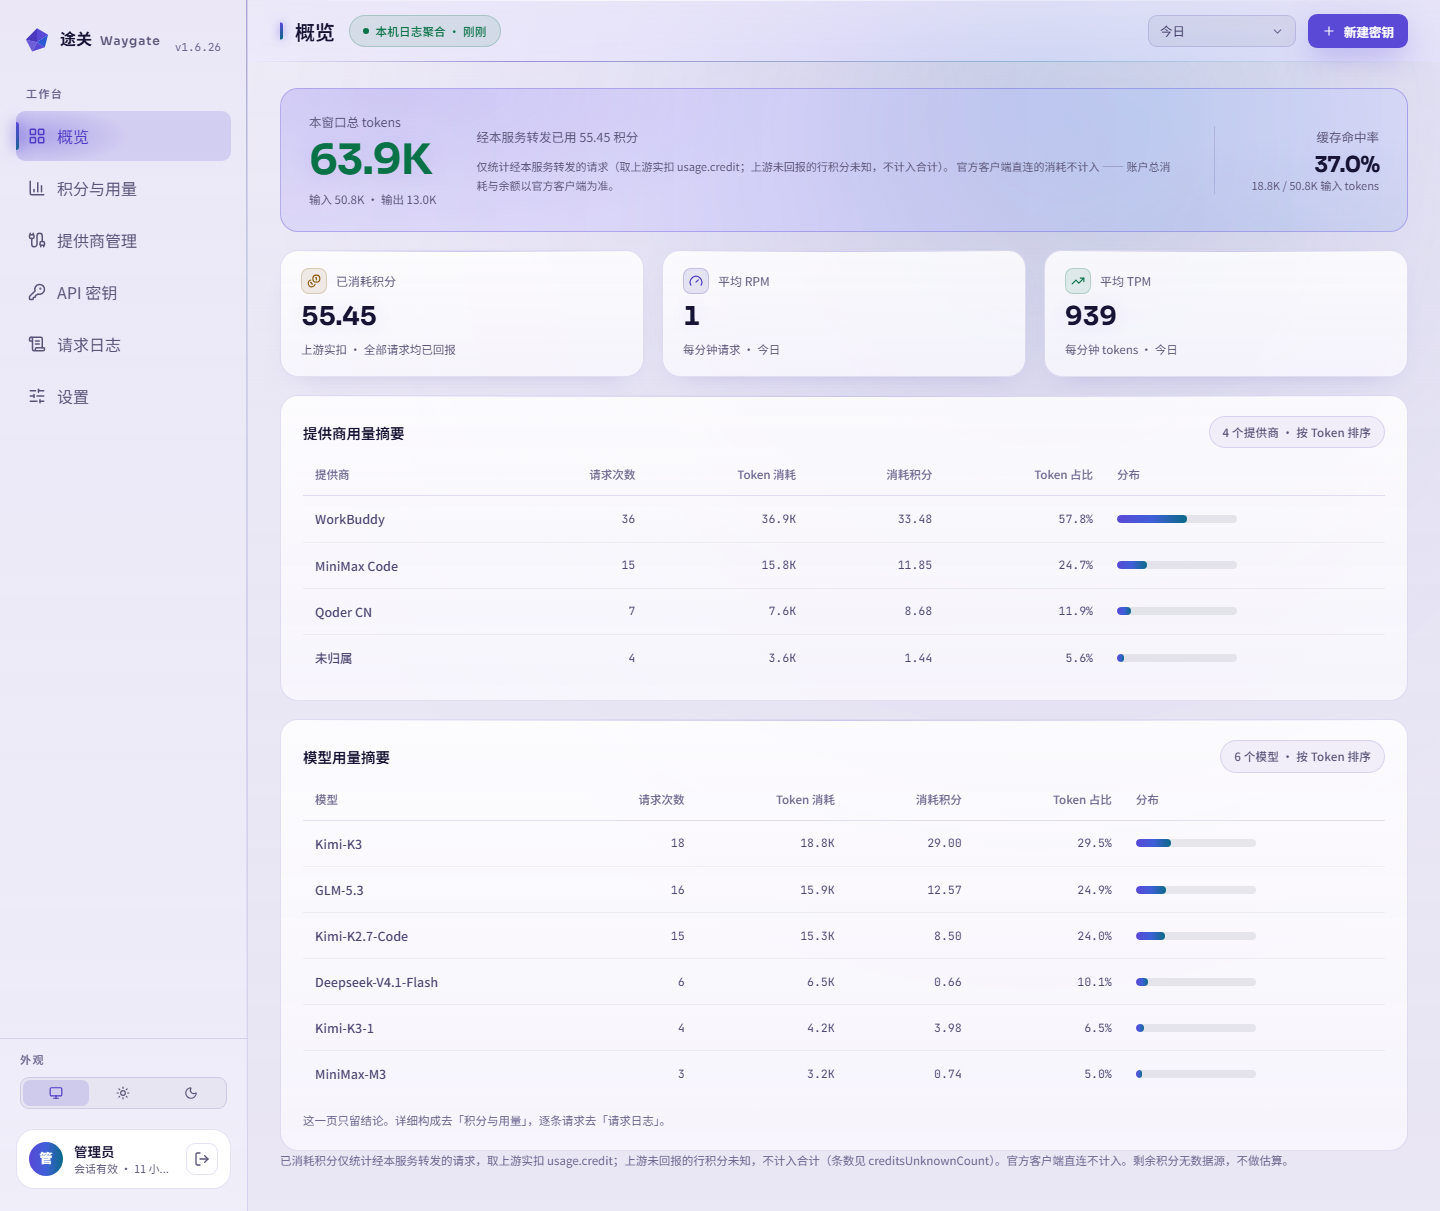
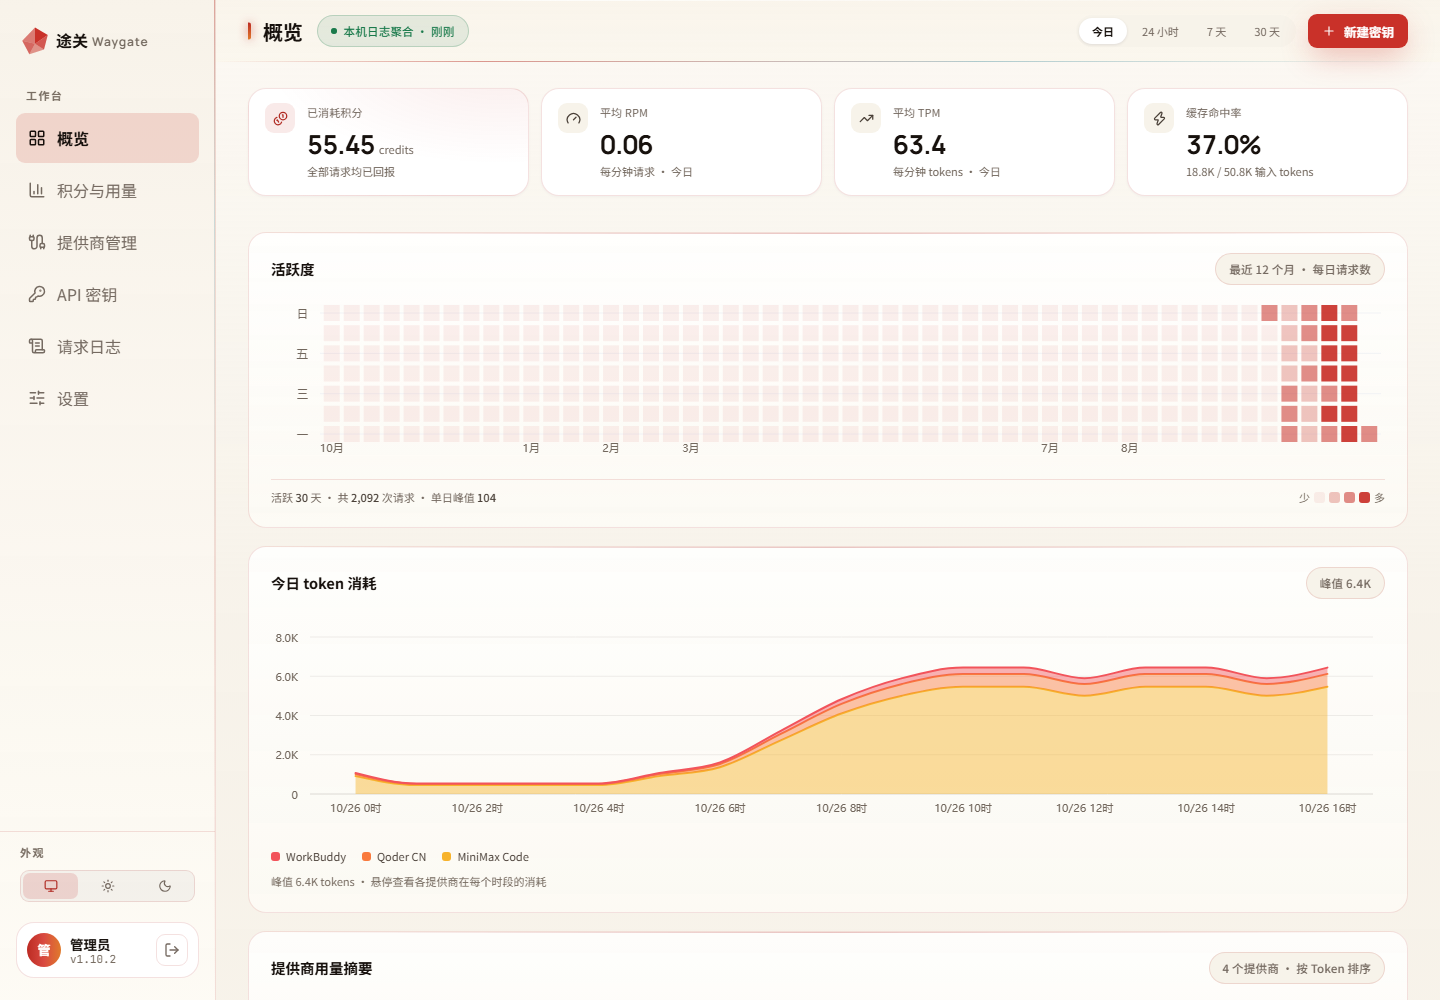
feat(v1.10.3): 同步私有仓 —— 热力图圆角全标、折线撞色修复、提供商页窗口统一
与私有仓同步（relay-station 7b2162c，18 个文件）。

## 一、热力图（用户报障两项）
- 格块改圆角：cornerRadius 2→3（正方形 + 3px 圆角，贡献图主流观感）
- X 轴 12 个月全标（此前"看不到全"是首次探测时图未懒加载完的误判——
  月均 4.4 列一个标签，全标不挤）

## 二、折线撞色：根因是哈希撞桶
providerColor(id) = FNV-1a % 7 —— 生日悖论下 4 家约 35% 概率两家同色。
修法两层：
1. 光谱 7→10 色（tokens.css 补粉/洋红/蓝紫，明度带一致，双主题可读）
2. 图表内改按序取色（spectrumByIndex）：折线与图例按「全窗口 tokens 降序」
   取色 —— 同屏必不同色（10 家内）；跨页身份色仍走哈希，两个语义分开

## 三、提供商页窗口控件统一（用户裁决）
下拉 Select → 与概览/用量页同款四段平铺（win-seg），选择仍写共享窗口。

## 同步方式
代码文件补丁前全部与私有仓逐字节相同，直接套用（ActivityHeat 的 3 行
差异是上轮修 lint 的注释，手工合入 relay 增量）；六张截图重拍版一并同步。
无迁移。

## 验证
server 899 全绿；web tsc + lint（5 道门禁）+ build 全绿。
真机：healthz 报 1.10.3、/console 200。

diff --git a/web/src/pages/ClientsPage.tsx b/web/src/pages/ClientsPage.tsx
@@ -2,9 +2,7 @@ import { useState } from 'react';
 import type { TimeWindow } from '../types/api';
 import { readSharedWindow, writeSharedWindow } from '../lib/sharedWindow';
 import { Topbar } from '../components/ui/Topbar';
-import { Select } from '../components/ui/Select';
 import { ProvidersPanel } from '../components/clients/ProvidersPanel';
-import { WINDOW_OPTIONS } from '../lib/console';
 
 /**
  * 提供商管理 —— **一张表**：提供商行 = 汇总，其下嵌套客户端行 = 明细。
@@ -14,7 +12,8 @@ import { WINDOW_OPTIONS } from '../lib/console';
  * 两者是同一件事的两端；各只有一行时，两张表看着就是重复。
  * 表结构与提供商行的用量归属规则写在 `ProviderTable.tsx`。
  *
- * 顶栏的窗口选择器仍在 —— 它决定客户端行报的用量窗口（`api.clients(window)`）。
+ * [v1.10.3] 窗口选择从下拉改为**与概览/用量页同款四段平铺**（用户裁决）：
+ * 同一语义的控件跨页长得一样，且档位一次可见一次可点；选择仍写入共享窗口。
  */
 export function ClientsPage() {
   const [win, setWin] = useState<TimeWindow>(() => readSharedWindow() ?? 'today');
@@ -23,7 +22,21 @@ export function ClientsPage() {
     <div className="view on">
       <Topbar
         title="提供商管理"
-        actions={<Select value={win} options={WINDOW_OPTIONS} onChange={(v) => { writeSharedWindow(v); setWin(v); }} width={148} />}
+        actions={
+          <span className="win-seg" role="group" aria-label="时间窗口">
+            {(['today', '24h', '7d', '30d'] as TimeWindow[]).map((w) => (
+              <button
+                key={w}
+                type="button"
+                className={win === w ? 'on' : ''}
+                aria-pressed={win === w}
+                onClick={() => { writeSharedWindow(w); setWin(w); }}
+              >
+                {w === 'today' ? '今日' : w === '24h' ? '24 小时' : w === '7d' ? '7 天' : '30 天'}
+              </button>
+            ))}
+          </span>
+        }
       />
       <div className="view-body stack">
         <ProvidersPanel window={win} />

diff --git a/docs/features.html b/docs/features.html
@@ -120,7 +120,7 @@
 <div class="page">
   <header>
     <h1>途关 Waygate · 功能架构</h1>
-    <span class="chip">v1.10.2</span>
+    <span class="chip">v1.10.3</span>
     <button class="theme-toggle" id="themeToggle" type="button">切换主题</button>
   </header>
   <p class="sub">五域能力地图：控制台 · 接入 · 多提供商 · 积分与领取 · 运行保障。每一条都对应已实现的代码路径。</p>
@@ -159,7 +159,7 @@
         <li><b>WorkBuddy</b> —— openai 方言 · 官方 OAuth 授权（v1.6.13 起 <code>ck_</code> 已退役）</li>
         <li><b>MiniMax Code</b> —— anthropic 方言 · OAuth 自动续期</li>
         <li><b>Qoder CN</b> —— COSY 协议 · 客户端登录态身份</li>
-        <li><b>自定义提供商</b>（v1.10.2）—— 任意 OpenAI 兼容端点：Base URL + API Key 手填即接；URL 智能解析（带不带 /v1 都行，表单实时预览）；清单拉 <code>/v1/models</code> 或手动补；出站纯 Bearer 透传（无指纹 / 不改写 / 无重试梯）；单次积分如实 <code>--</code>（不标定）</li>
+        <li><b>自定义提供商</b>（v1.10.3）—— 任意 OpenAI 兼容端点：Base URL + API Key 手填即接；URL 智能解析（带不带 /v1 都行，表单实时预览）；清单拉 <code>/v1/models</code> 或手动补；出站纯 Bearer 透传（无指纹 / 不改写 / 无重试梯）；单次积分如实 <code>--</code>（不标定）</li>
         <li><b>凭证导入</b> —— 选客户端 → 跳官方授权页 → 回来自动落盘；「未授权」信号三家各不相同（业务码 / <code>authorization_pending</code> / 404）；私有状态只存服务端</li>
         <li><b>路由规则</b> —— 精确匹配（大小写敏感）→ 提供商内模糊回落；声明行优先于 observed</li>
       </ul>
@@ -193,7 +193,7 @@
   </div>
 
   <p class="foot">
-    图中每一条都对应已实现的代码路径，无规划项。版本 v1.10.2 ·
+    图中每一条都对应已实现的代码路径，无规划项。版本 v1.10.3 ·
     与 <code>server/src/version.ts</code> 同源。
   </p>
 </div>

diff --git a/web/src/components/overview/TokenTrend.tsx b/web/src/components/overview/TokenTrend.tsx
@@ -2,7 +2,7 @@ import { lazy, Suspense, useMemo } from 'react';
 import type { TrendPoint } from '../../types/api';
 import { formatBucket, formatTokens } from '../../lib/format';
 import { useChartColors } from './chartTheme';
-import { providerColor } from '../../lib/providerColor';
+import { providerColor, spectrumByIndex } from '../../lib/providerColor';
 import { readToken } from './chartTheme';
 
 type Row = {
@@ -117,14 +117,14 @@ export function TokenTrend({ points, windowLabel }: { points: TrendPoint[]; wind
       id: `area-${s.key}`,
       line: {
         style: {
-          stroke: canvasColor(s.key),
+          stroke: canvasColor(spectrumByIndex(i)),
           lineWidth: 2,
           curveType: 'monotoneX',
         },
       },
       area: {
         style: {
-          fill: canvasColor(s.key),
+          fill: canvasColor(spectrumByIndex(i)),
           fillOpacity: 0.45,
         },
       },
@@ -208,11 +208,13 @@ export function TokenTrend({ points, windowLabel }: { points: TrendPoint[]; wind
       <Suspense fallback={<div className="token-trend-loading" aria-hidden="true" />}>
         <VChart spec={spec} style={{ width: '100%', height: 220 }} />
       </Suspense>
-      {/* [v8] 图例：按全窗口 tokens 降序（与堆叠层次一致），色点用同一身份色。 */}
+      {/* [v8] 图例：按全窗口 tokens 降序（与堆叠层次一致）。
+          [v1.10.3] 色点与线同源 —— 按系列序取色（spectrumByIndex），
+          否则图例（哈希色）与线（序号色）对不上。跨页身份色仍由别处 providerColor 提供。 */}
       <div className="tt-legend">
-        {providerNames.map((n) => (
+        {providerNames.map((n, i) => (
           <span className="tt-legend-item" key={n}>
-            <i style={{ background: providerColor(n) }} />
+            <i style={{ background: spectrumByIndex(i) }} />
             {nameById.get(n) ?? n}
           </span>
         ))}

diff --git a/web/src/components/overview/ActivityHeat.tsx b/web/src/components/overview/ActivityHeat.tsx
@@ -97,7 +97,10 @@ export function ActivityHeat({ points }: { points: TrendPoint[] }) {
       ? { l1: Math.max(1, q(0.25)), l2: Math.max(2, q(0.6)) }
       : { l1: 1, l2: 2 };
 
-    /* x 轴月份标签：每列取首日，月份变化的那列才标（其余空串）。 */
+    /* [v1.10.3] x 轴 12 个月全标（用户口径）：每个**月的第一列**都标月份。
+       12 个月 ≈ 52 列，月均 4.4 列 —— 一个标签宽度内不会再遇到下一个标签，全标不挤。
+       跨年时（11 月、12 月属于去年）首两个月写「去年 11 月」式短前缀容易与图例混淆，
+       保持纯「11月」—— 顺序本身（左旧右新）已消除歧义。 */
     const weekLabels: string[] = [];
     let lastMonth = -1;
     for (let w = 0; w < weeks; w++) {
@@ -203,7 +206,8 @@ export function ActivityHeat({ points }: { points: TrendPoint[] }) {
       style: {
         fill: c.line,
         fillOpacity: (d: unknown) => opacityFor((d as Cell).requests),
-        cornerRadius: 2,
+        /* [v1.10.3] 圆角方块（用户裁决）：正方形 + 3px 圆角，贡献图主流观感。 */
+        cornerRadius: 3,
         /* [v1.10.2] 正方形闸门（读 heatmap.js 源码定案）：cell 的 size 来自
            series 级 `[x带宽, y带宽]` —— y 轴 region 被布局压窄时格就变扁。
            用户级 style 覆盖它：size 显式给 `[步长×0.82, 步长×0.82]`（0.82 = 剥

diff --git a/web/src/lib/providerColor.ts b/web/src/lib/providerColor.ts
@@ -20,7 +20,19 @@ const SPECTRUM = [
   'var(--spectrum-5)',
   'var(--spectrum-6)',
   'var(--spectrum-7)',
+  /* [v1.10.3] 8-10 号补位：哈希 % 7 在 3+ 家时撞色概率很高（生日悖论，4 家 ~35%）,
+     扩到 10 显著降低；图表内另按系列序分配（spectrumByIndex），哈希只服务跨页身份。 */
+  'var(--spectrum-8)',
+  'var(--spectrum-9)',
+  'var(--spectrum-10)',
 ] as const;
+
+/** [v1.10.3] 按序取色（循环）—— 图表专用：同屏系列各取各的序号，**同屏必不同色**。
+ *  哈希法在同一页面撞色是用户报障根因（折线图 3+ 家出现同色）。
+ *  序号 = 图表数据归并时的排名（tokens 降序），同页稳定；跨页身份仍走 providerColor(id)。 */
+export function spectrumByIndex(i: number): string {
+  return SPECTRUM[((i % SPECTRUM.length) + SPECTRUM.length) % SPECTRUM.length];
+}
 
 /** 稳定哈希 → 光谱色 CSS 变量引用。 */
 export function providerColor(id: string): string {

diff --git a/server/src/version.ts b/server/src/version.ts
@@ -9,4 +9,4 @@
  * `version` 一致，不一致直接 fail build —— 两处版本永远不会悄悄分叉。
  * 升版本 = 同时改 package.json 与这里（构建会逼你对齐）。
  */
-export const VERSION = '1.10.2';
+export const VERSION = '1.10.3';

diff --git a/README.md b/README.md
@@ -8,7 +8,7 @@
 [![NestJS](https://img.shields.io/badge/NestJS-12-E0234E?style=flat-square)](https://nestjs.com)
 [![SQLite](https://img.shields.io/badge/SQLite-better--sqlite3-003B57?style=flat-square)](https://github.com/WiseLibs/better-sqlite3)
 [![Node](https://img.shields.io/badge/Node-%E2%89%A522.9-3C873A?style=flat-square)](https://nodejs.org)
-[![version](https://img.shields.io/badge/version-1.10.2-4A38C0?style=flat-square)](https://github.com/zhanghaojie513/waygate-open/releases)
+[![version](https://img.shields.io/badge/version-1.10.3-4A38C0?style=flat-square)](https://github.com/zhanghaojie513/waygate-open/releases)
 [![tests](https://img.shields.io/badge/tests-899%20passed-0A7247?style=flat-square)](./server)
 
 ![途关 · Waygate](docs/img/intro.png)
@@ -45,10 +45,10 @@
 - **双方言出口**：`/v1/chat/completions`（OpenAI 兼容）与 `/v1/messages`（Anthropic 兼容），流式/非流式；三种上游方言自动翻译
 - **多提供商**：目录按 `(provider_id, id)` 分区；来源分 `seed / upstream / manual` 三类（observed 机制 v1.5.0 已废除，目录以接口清单为准）；订阅三家与自定义提供商可同时生效
 - **导入客户端**（v1.6.12，v1.6.13 起为**订阅三家的唯一**凭证入口；v1.7.0 起另有「新增自定义」并列入口）：控制台选客户端 → 跳各自**官方授权页** → 回来自动落盘凭证。三家的授权机制各不相同（WorkBuddy 业务码判等待 / MiniMax PKCE 设备码 / Qoder PKCE + 404 判等待），服务端按协议分派；私有状态（`device_code` / `code_verifier`）只存服务端，**绝不回传浏览器**。三家凭证都在客户端登录态里、用户拿不到，因此**不提供手填**（WorkBuddy 原用的 `ck_` 密钥已退役，转发也改走 OAuth）——行内「重新导入授权」用于换账号 / 刷新令牌
-- **自定义提供商**（v1.10.2，「导入客户端」旁的第二条新建路径）：任意 **OpenAI 兼容端点**（DeepSeek / OpenRouter / 硅基流动 / 自建 vLLM…）填 **Base URL + API Key** 即可接入。与上面不矛盾 —— API-key 制端点的 key 就在用户手上，**手填就是它的原生鉴权**（和当年订阅客户端的 `ck_` 死路是两回事）。出站走独立分支：纯 Bearer、无指纹 UA、不做 prompt 重写、无 111xx 重试梯；模型清单拉 `GET /v1/models`，拉不到可**手动补模型**（`source='manual'`，不被替换式同步冲掉）；积分列恒「未回报」（不自标定）。聊天端点路径**智能解析**：base 无版本段拼 `/v1/chat/completions`，以 `/vN` 结尾只拼 `/chat/completions`，也可显式覆盖
+- **自定义提供商**（v1.10.3，「导入客户端」旁的第二条新建路径）：任意 **OpenAI 兼容端点**（DeepSeek / OpenRouter / 硅基流动 / 自建 vLLM…）填 **Base URL + API Key** 即可接入。与上面不矛盾 —— API-key 制端点的 key 就在用户手上，**手填就是它的原生鉴权**（和当年订阅客户端的 `ck_` 死路是两回事）。出站走独立分支：纯 Bearer、无指纹 UA、不做 prompt 重写、无 111xx 重试梯；模型清单拉 `GET /v1/models`，拉不到可**手动补模型**（`source='manual'`，不被替换式同步冲掉）；积分列恒「未回报」（不自标定）。聊天端点路径**智能解析**：base 无版本段拼 `/v1/chat/completions`，以 `/vN` 结尾只拼 `/chat/completions`，也可显式覆盖
 - **API 密钥**：绑定提供商优先级、权限范围（全部/按族/按模型/按标签）、IP 上限、token 配额、IP 白名单
 - **请求日志**：提供商列读 `provider_id` **事实列**（本次请求实际路由到哪家；迁移前的老行按目录反解兜底）；SSE 流也留痕；**游标（keyset）分页**——翻页期间的新写入不产生重复行；按 `logs.retainDays` 每日自动清理过期日志（启动即补跑停机期间欠的账）
-- **延迟归因**（v1.10.2）：把「慢不慢」拆成「谁慢」——`ingress_ms`（客户端上传 + 解析）/ `auth_ms`（鉴权）/ `prep_ms`（路由 + 凭证 + 组包）/ `upstream_wait_ms`（上游排队 + 思考）。详情抽屉「时间去哪了」分段条；用量页「我方开销」均值 + 「首字节 P95」（P95 取秩不插值）。四列**全可空**，NULL = 未记录，**绝不用 0 冒充**
+- **延迟归因**（v1.10.3）：把「慢不慢」拆成「谁慢」——`ingress_ms`（客户端上传 + 解析）/ `auth_ms`（鉴权）/ `prep_ms`（路由 + 凭证 + 组包）/ `upstream_wait_ms`（上游排队 + 思考）。详情抽屉「时间去哪了」分段条；用量页「我方开销」均值 + 「首字节 P95」（P95 取秩不插值）。四列**全可空**，NULL = 未记录，**绝不用 0 冒充**
 - **不可逆前留档**（v1.7.2）：删提供商前把「行 + 模型目录 + 启停偏好 + 凭证文件原文」写进 `backup/provider-<id>-<ts>.json`（0600 / 目录 0700，保留最近 20 份）；写失败不阻断删除（如实返回 `backup: null`）。另有 `GET /api/providers/:id/impact` 查「会碰到谁」（绑定密钥 / 模型范围 / 近 N 小时流量）
 - **积分与用量**：趋势图（Token / 请求数双口径，**等距时间轴**，空桶补零）、按模型 / 按提供商拆分、缓存命中率、缓存 token 计量（Anthropic 口径：prompt = input + cache_creation + cache_read）
 - **积分账本**：MiniMax `credit/details` 真实余额（精确到 0.01）；凭证 refresh token 自动续期 + 每日签到（专用账号后即可代签）；WorkBuddy 资源包聚合余额（`get-user-resource` POST 实测口径）
@@ -56,9 +56,9 @@
 - **WorkBuddy 领取域**（v1.4.0；v1.6.11 起与转发统一）：签到代领 + 成长任务 + 连登兑换走**用户会话域**（OAuth，`providers/<id>.oauth`，多会话共存不互踢）——正是这条链路让 `ck_` 得以整体退役。诚实边界：任务多为「体验 XX」型，前置条件不满足就如实记 `skipped`，**绝不伪造行为去凑任务**；补登卡/抽奖等资源消耗型操作不自动化
 - **容错**：Qoder 空内容**自动重试一次**（对客户端无感）—— 零字节与「回了字节但解不出任何 data 帧」都算（v1.7.4 扩，后者生产实测白等 14s 无重试）；判定保守：分块切断的半帧不误判，不把正常流重发一遍；上游 11128 渠道校验自动降级重试；**11128 渠道熔断**（连续 3 次「降级重试也 11128」即开闸，冷却期内未打上游、未占并发槽、未计费，毫秒级 502 + `retry-after`，阵发过去自动半开放行探测）——上游阵发期每个失败要烧 ~65s，并发槽是全局单计数，不加熔断会烧满槽饿死其他提供商；**只计渠道级信号**（内容级 11128 降级能过的不计入），避免一个客户端的请求特征变成全提供商的闸门
 - **审计不丢行**：流式请求在途期间密钥被删时，落库撞 `key_id` 外键会丢整行 —— 现自动降级 `key_id = NULL` 重试保住整行（tokens / 积分 / 状态 / 耗时照常），`client_id` / `key_hint` 快照仍在，note 标记 `key_deleted_inflight`
-- **提供商归属是记录的事实**（v1.10.2）：`requests.provider_id` 记下**本次请求实际路由到**的提供商。原因：同一模型 id 可能同时存在于两家目录（实测 MiniMax-M2.7 / M3 / M3.1-Flash-Preview 同时在 MiniMax Code 与 Code2），而「目录反解」按创建序先到先得、「路由」按密钥绑定优先 —— 两者不一致时统计会静默记到错误的那家，且无字段可查。老行留 `NULL` 并按目录反解兜底（不回填猜测）
+- **提供商归属是记录的事实**（v1.10.3）：`requests.provider_id` 记下**本次请求实际路由到**的提供商。原因：同一模型 id 可能同时存在于两家目录（实测 MiniMax-M2.7 / M3 / M3.1-Flash-Preview 同时在 MiniMax Code 与 Code2），而「目录反解」按创建序先到先得、「路由」按密钥绑定优先 —— 两者不一致时统计会静默记到错误的那家，且无字段可查。老行留 `NULL` 并按目录反解兜底（不回填猜测）
 - **错误语义统一**（v1.6.32）：`/api/*` 的「资源不存在」一律 404 统一信封（不再 200 + `reason` 字符串）；`POST /api/providers` 与其余写方法一样返回 200（此前是 Nest 默认 201）；`/v1/usage` 鉴权失败回 **401**（此前返回 200 + error body，客户端会当成功）
-- **趋势图覆盖整个窗口**（v1.10.2）：桶序列起点**向下对齐到桶边界**、终点是当前桶，于是图覆盖区间 ⊇ 窗口区间，`Σ趋势 === 卡片数字` 成为结构性保证（1h→2 格、24h→25 格、7d→8 格、30d→31 格）。首/末桶带 `partial` 标记，tooltip 标「不足一格」
+- **趋势图覆盖整个窗口**（v1.10.3）：桶序列起点**向下对齐到桶边界**、终点是当前桶，于是图覆盖区间 ⊇ 窗口区间，`Σ趋势 === 卡片数字` 成为结构性保证（1h→2 格、24h→25 格、7d→8 格、30d→31 格）。首/末桶带 `partial` 标记，tooltip 标「不足一格」
 - **控制台**：React 19 单页，明暗双主题（跟随系统/手动，侧栏底部切换；官网与控制台同套主题——棱镜场景浅色下以 `multiply` 显形、深色下以 `screen`），CSS 伪元素 tooltip 体系，同形状骨架屏；页间数据先旧后新（SWR：重进页面即刻渲染上次数据、后台刷新无缝替换，自己的写操作写穿缓存不闪旧态）；「提供商健康」只读总览
 - **性能**：路由级代码分割：官网与控制台互不加载对方代码，首屏 gzip <100K；vendor 独立 chunk 享 30d `immutable` 长缓存（发版只重下业务 chunk）；概览 5s TTL 缓存（写操作即清）、SQL 语句按文本缓存复用、凭证文件 stat 失效缓存、last_seen 节流落库——同进程转发 SSE，省下的每次查询/写库都是还给流的事件循环时间；Nginx gzip（level 5）压缩传输
 
@@ -79,7 +79,7 @@ npm install -g waygate-open
 waygate-open
 ```
 
-想看固定版本而不是跟着 `latest` 走：`npx waygate-open@1.10.2`。
+想看固定版本而不是跟着 `latest` 走：`npx waygate-open@1.10.3`。
 
 两种方式行为一致：起本地服务并**自动打开浏览器**到控制台（默认 <http://127.0.0.1:8787/console>）。
 首次启动的管理口令默认是 **`waygate`** —— 仅当只监听回环（`127.0.0.1`）时套用这个
@@ -444,4 +444,4 @@ tools/                     仓库级工具（lint 门禁、token 合并、截图
 
 ---
 
-版本约定：`1.0.0` 起 API 契约稳定（当前 `1.10.2`，见 `server/src/version.ts`；历史版本见 [Releases](https://github.com/zhanghaojie513/waygate-open/releases)）。
+版本约定：`1.0.0` 起 API 契约稳定（当前 `1.10.3`，见 `server/src/version.ts`；历史版本见 [Releases](https://github.com/zhanghaojie513/waygate-open/releases)）。
